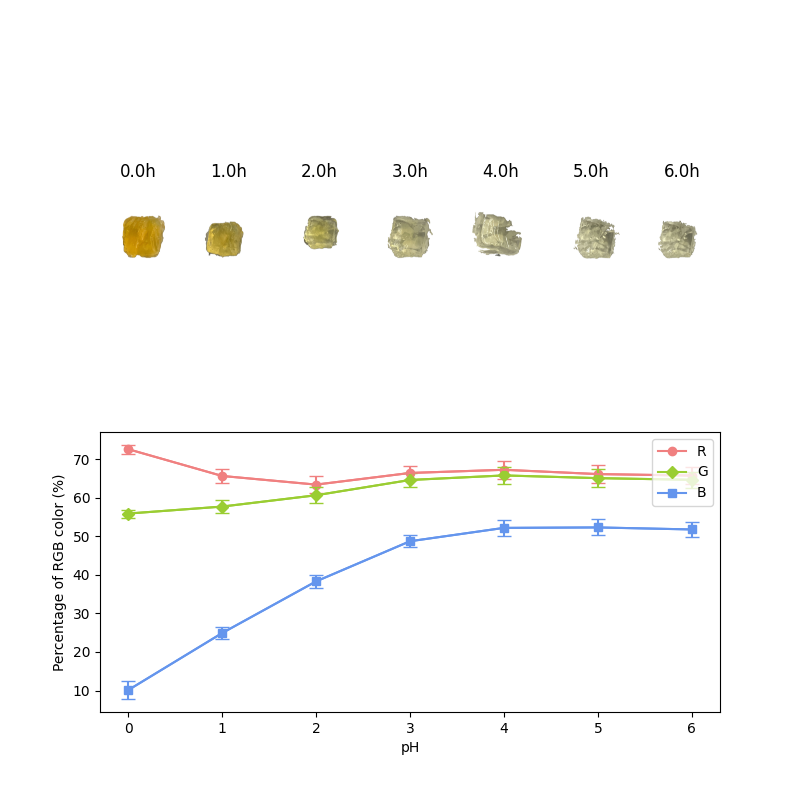
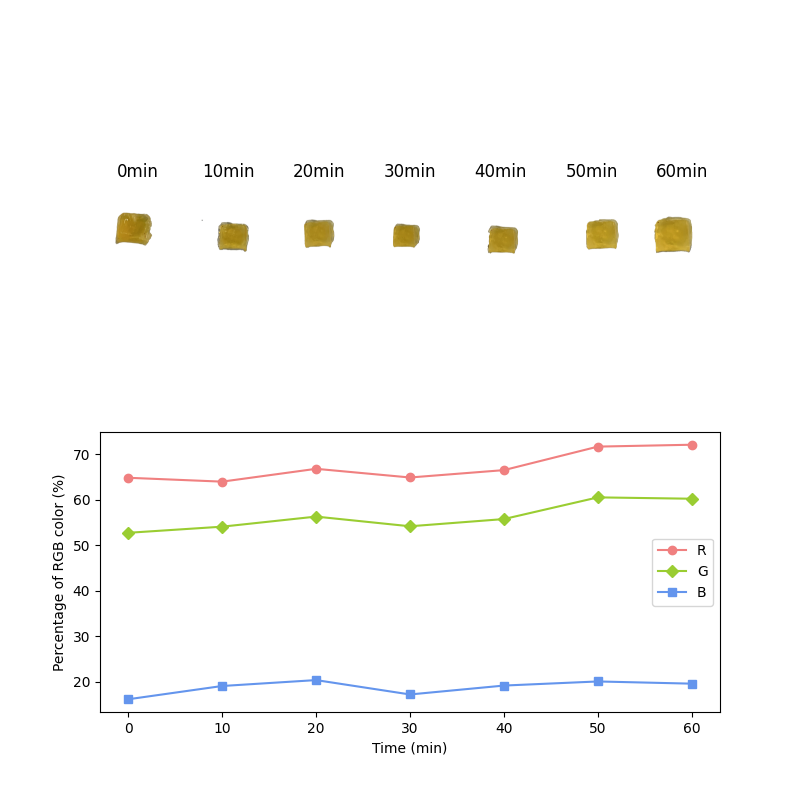
1

diff --git a/result_over_time.py b/result_over_time.py
@@ -1,0 +1,132 @@
+import matplotlib.pyplot as plt
+from natsort import natsorted
+import numpy as np
+import os
+import re
+import scipy.ndimage as nd
+import skimage as ski
+import statistics
+
+
+def mask_without_background(img):
+  """Get a mask without the background."""
+  elevation_map = ski.filters.sobel(img)
+  elevation_map = (elevation_map * 255).astype(np.uint8)
+  green_mask = (elevation_map[:, :, 2] < 100) & (elevation_map[:, :, 1] > 15) & (elevation_map[:, :, 0] < 150)
+  anti_green_mask = (img[:, :, 2] < 100) & (img[:, :, 1] > 70) & (img[:, :, 0] < 100)
+  mask = green_mask | anti_green_mask
+  masked_image = np.ones_like(img) * 255
+  masked_image[mask] = img[mask]
+  return masked_image
+
+def remove_background(img, preliminary_mask):
+  """Remove the background."""
+  # Turn the image to grayscale
+  gray_image = ski.color.rgb2gray(preliminary_mask)
+  # Denoise the image
+  blurred_image = ski.filters.gaussian(gray_image, sigma=4)
+  # Apply a threshold of 0.8 to the image
+  threshold = 0.8
+  binary_mask = blurred_image < threshold
+  # Create an all zero values array with the same shape as our binary mask
+  binary_mask_image = np.ones_like(img) * 255
+  binary_mask_image[binary_mask] = 0
+  # Label the objects
+  labeled_image, _ = ski.measure.label(binary_mask, return_num=True)
+  # Get the areas of the objects to remove small objects
+  objects = ski.measure.regionprops(labeled_image)
+  object_areas = [obj["area"] for obj in objects]
+  if len(object_areas) > 2:
+    largest = np.partition(object_areas, -1)[-1]
+    # Remove small objects
+    small_objects =[obj for obj in objects if obj.area<largest]
+    for i in small_objects:
+      labeled_image[i.bbox[0]:i.bbox[2], i.bbox[1]:i.bbox[3]]=0
+  # Fill holes
+  solid_labels = nd.binary_fill_holes(labeled_image).astype(int)
+  # Final mask
+  final_mask = solid_labels > 0
+  # Output
+  output_image = np.ones_like(img) * 255
+  output_image[final_mask] = img[final_mask]
+  return output_image
+
+def load_images(folder_name):
+  """Load images in the folder."""
+  folder_path = os.path.join(os.getcwd(), folder_name)
+  list_files = os.listdir(folder_path)
+  list_files = natsorted(list_files)
+  image_dict = {}
+  for filename in list_files:
+    file_path = os.path.join(folder_path, filename)
+    image_dict[filename] = ski.io.imread(file_path)
+  return image_dict
+
+def get_rgb(img):
+  """Get the average RGB of an image."""
+  # Create a mask for white regions
+  white_mask = np.all(img == [255, 255, 255], axis=-1)
+  # Invert the mask to select non-white regions
+  non_white_mask = ~white_mask
+  # Extract non-white pixels from the image
+  non_white_pixels = img[non_white_mask]
+  # Calculate the average RGB values for non-white regions
+  average_rgb = np.mean(non_white_pixels, axis=0)
+  normalized_rgb = [i*100/255 for i in average_rgb]
+  return normalized_rgb
+
+def comparison(imgs):
+  """Display the result of comparison and the RGB value of each one."""
+  # Count number
+  number = len(imgs)
+  if number < 1:
+    return
+  # Remove background
+  image_names = list(imgs.keys())
+  processed_images = {}
+  for i in image_names:
+    processed_images[i] = remove_background(imgs[i], mask_without_background(imgs[i]))
+  # Display images
+  fig = plt.figure(figsize=(8, 8))
+  axes = np.zeros((2, number), dtype=object)
+  for i in range(0, number):
+    axes[0, i] = fig.add_subplot(2, number, 1+i)
+    axes[0, i].axis("off")
+    axes[0, i].imshow(processed_images[image_names[i]])
+    axes[0, i].set_title(image_names[i][:-4])
+  axes[1, 0] = fig.add_subplot(2, 1, 2)
+  # Show RGB values
+  time = np.array([int(re.findall(r'\d+', i)[0]) for i in image_names])
+  rgb = []
+  for i in image_names:
+    color = get_rgb(processed_images[i])
+    rgb.append(color)
+  # Plots and errorbars of R
+  red = np.array([i[0] for i in rgb])
+  p1 = axes[1, 0].plot(time, red, color="lightcoral", marker="o")
+  # Plots and errorbars of G
+  green = np.array([i[1] for i in rgb])
+  p2 = axes[1, 0].plot(time, green, color="yellowgreen", marker="D")
+  # Plots and errorbars of B
+  blue = np.array([i[2] for i in rgb])
+  p3 = axes[1, 0].plot(time, blue, color="cornflowerblue", marker="s")
+  # for a, b in zip(pHs, red): 
+  #   axes[1, 0].text(a, b, str("{:.2f}".format(b)), color="lightcoral")
+  # for a, b in zip(pHs, green): 
+  #   axes[1, 0].text(a, b, str("{:.2f}".format(b)), color="yellowgreen")
+  # for a, b in zip(pHs, blue): 
+  #  axes[1, 0].text(a, b, str("{:.2f}".format(b)), color="cornflowerblue")
+  # Add legends
+  axes[1, 0].legend((p1[0], p2[0], p3[0]), ("R", "G", "B"), loc='center right')
+  # axis label
+  axes[1, 0].set_ylabel('Percentage of RGB color (%)')
+  axes[1, 0].set_xlabel('Time (min)')
+  plt.show()
+
+def main():
+  image_dict = load_images('ph4 over time')
+  comparison(image_dict)
+
+
+if __name__ == "__main__":
+    main()
